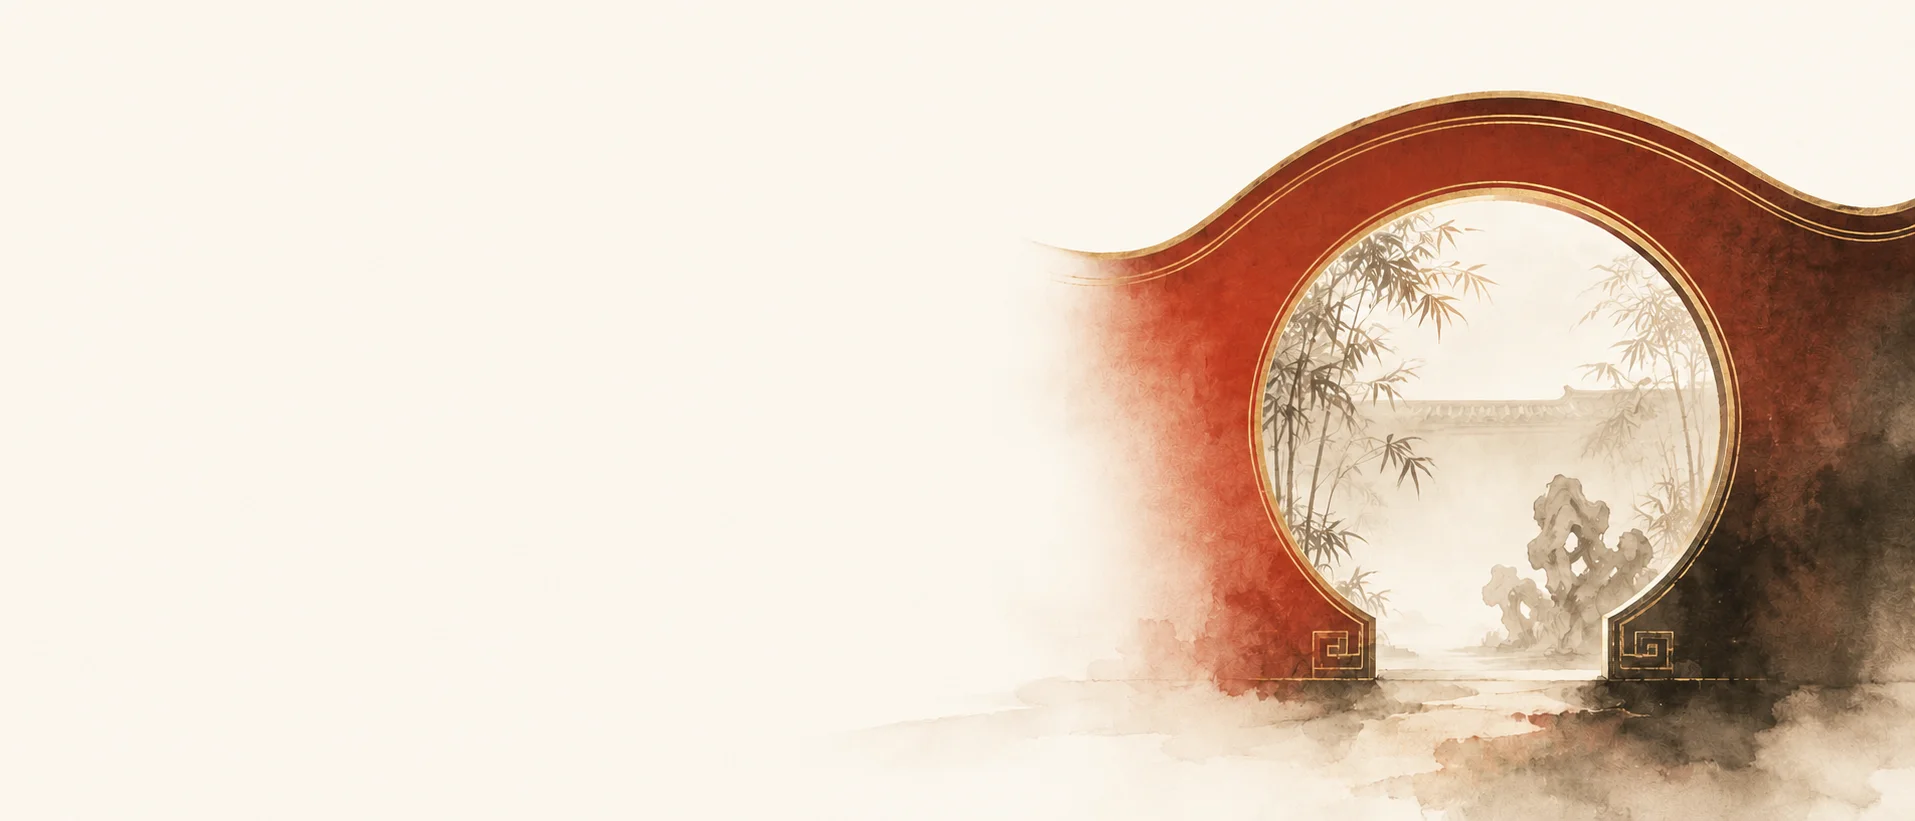
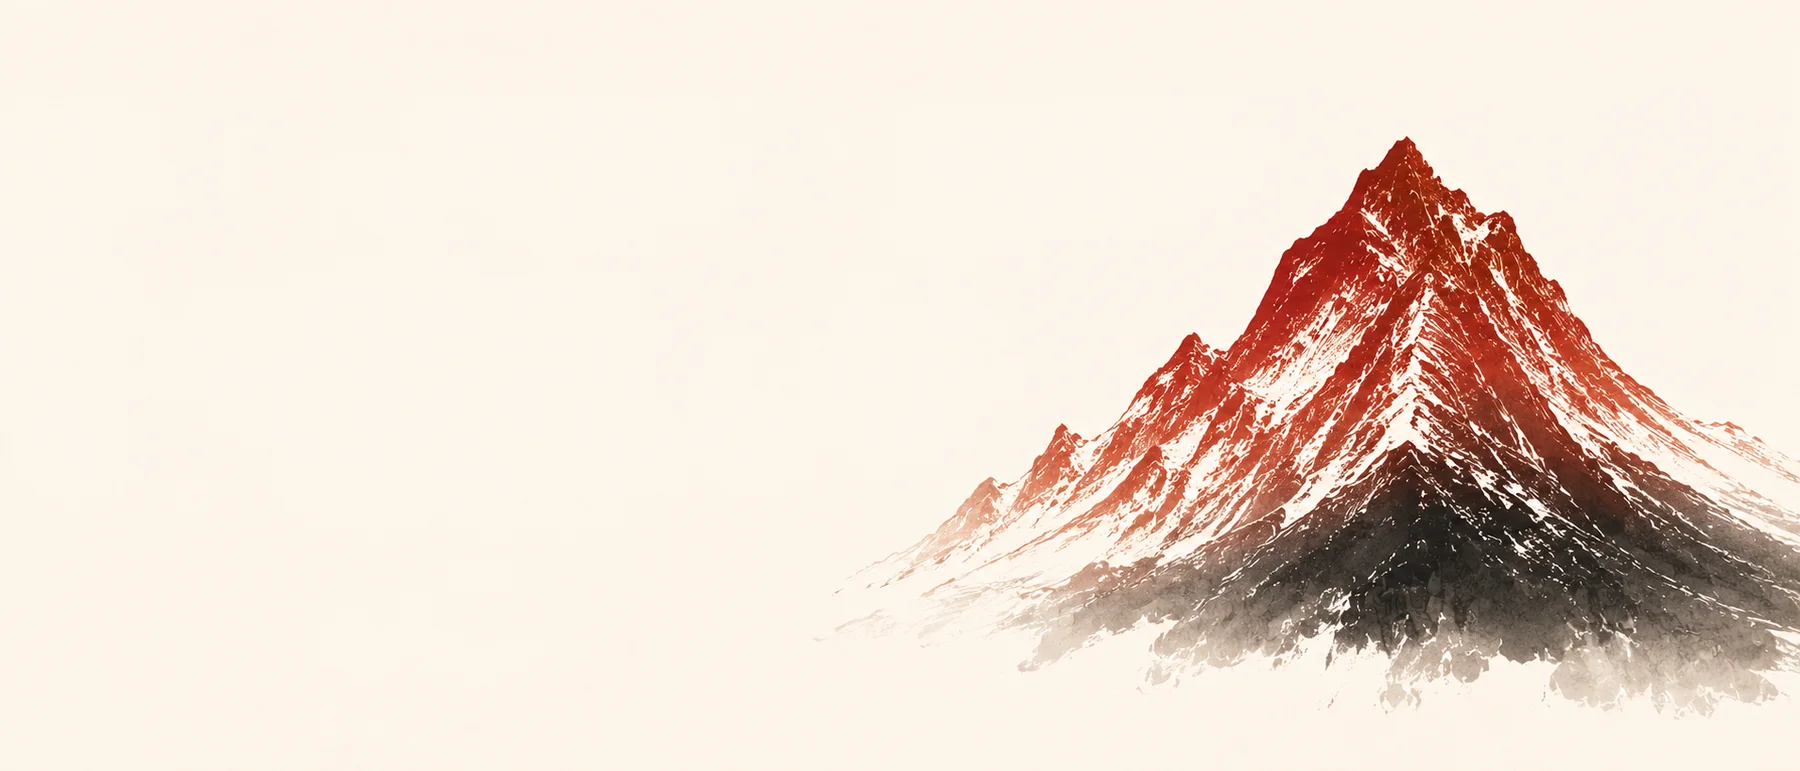
Add files via upload

diff --git a/candidates.html b/candidates.html
@@ -9,7 +9,7 @@
 /* ===== 浮生三千 マーダーミステリー ローカライズ 共用スタイル ===== */
 :root{
   --ink:#1a1a1a;
-  --ink-soft:#5c554a;
+  --ink-soft:#8a8378;
   --paper:#faf7f2;
   --card:#ffffff;
   --lacquer:#9b2226;
@@ -120,13 +120,58 @@ section{max-width:1200px;margin:0 auto;padding:100px 40px;}
 /* ===== CANDIDATE / LINEUP CARDS ===== */
 .files-note{border-left:2px solid var(--gold);padding:6px 0 6px 24px;font-size:0.9rem;color:var(--ink-soft);margin-bottom:56px;font-weight:300;max-width:70ch;}
 .files-note strong{color:var(--ink);font-weight:500;}
-.files-grid{display:grid;grid-template-columns:repeat(3,1fr);gap:1px;background:var(--hair);border:1px solid var(--hair);}
-.file-card{background:var(--card);padding:52px 34px;display:flex;align-items:center;justify-content:center;text-align:center;min-height:260px;}
-.file-card .ph-text{color:var(--ink-soft);}
-.file-card .ph-text .genre-dot{width:6px;height:6px;border-radius:50%;background:var(--gold);display:inline-block;margin-bottom:20px;}
-.file-card .ph-text strong{display:block;font-family:'Noto Serif SC','Noto Serif JP',serif;color:var(--ink);font-size:1.08rem;font-weight:400;margin-bottom:10px;letter-spacing:0.04em;}
-.file-card .ph-text span{font-size:0.85rem;font-weight:300;}
-@media (max-width:900px){.files-grid{grid-template-columns:1fr;}}
+
+/* ===== 横向作品カード ===== */
+.files-grid{display:flex;flex-direction:column;gap:1px;background:var(--hair);border:1px solid var(--hair);}
+.file-card{
+  background:var(--card);
+  display:grid;
+  grid-template-columns:200px 1fr;
+  gap:0;
+  min-height:280px;
+}
+.file-card .poster{
+  background:var(--paper-deep);
+  display:flex;
+  align-items:center;
+  justify-content:center;
+  overflow:hidden;
+  flex-shrink:0;
+}
+.file-card .poster img{
+  width:100%;
+  height:100%;
+  object-fit:cover;
+  display:block;
+}
+.file-card .poster .no-img{
+  width:60px;
+  height:60px;
+  border:1px solid var(--hair);
+  display:flex;
+  align-items:center;
+  justify-content:center;
+}
+.file-card .poster .no-img svg{stroke:var(--hair);fill:none;}
+.file-card .info{
+  padding:44px 48px;
+  display:flex;
+  flex-direction:column;
+  justify-content:center;
+  border-left:1px solid var(--hair);
+}
+.file-card .genre-dot{width:6px;height:6px;border-radius:50%;background:var(--gold);display:inline-block;margin-bottom:18px;}
+.file-card .genre-label{font-size:0.7rem;letter-spacing:0.2em;color:var(--gold);margin-bottom:12px;display:block;}
+.file-card h3{font-family:'Noto Serif SC','Noto Serif JP',serif;font-size:1.2rem;font-weight:400;margin-bottom:14px;letter-spacing:0.04em;color:var(--ink);}
+.file-card .desc{font-size:0.88rem;color:var(--ink-soft);font-weight:300;max-width:52ch;line-height:1.9;}
+.file-card .meta{margin-top:20px;font-size:0.78rem;color:var(--ink-soft);font-weight:300;letter-spacing:0.04em;}
+.file-card.ph-card .info{justify-content:center;align-items:flex-start;}
+
+@media (max-width:700px){
+  .file-card{grid-template-columns:1fr;}
+  .file-card .poster{min-height:200px;}
+  .file-card .info{padding:32px 28px;}
+}
 
 .lineup-empty{
   border:1px dashed var(--hair);
@@ -227,7 +272,7 @@ footer a{color:var(--gold);}
   </div>
 </header>
 
-<div style="background:var(--paper-deep) url('images/hero-band-red.webp') right center/cover no-repeat;">
+<div style="background:var(--paper-deep) url('images/hero-index.webp') right center/cover no-repeat;">
 <div class="page-hero" style="border-bottom:1px solid var(--hair);">
   <span class="eyebrow">SCRIPT CANDIDATES · 中国 → 日本</span>
   <h1>候補シナリオ</h1>
@@ -239,27 +284,52 @@ footer a{color:var(--gold);}
   <p class="files-note">ここに掲載する作品は、<strong>原作発行元との契約およびローカライズ作業への着手が確認できたもの</strong>のみを公開しています。交渉段階の作品については掲載しておりません。</p>
 
   <div class="files-grid">
-    <div class="file-card">
-      <div class="ph-text">
+
+    <!-- 作品を追加するときはこのブロックをコピーして使う -->
+    <!-- poster の <img> を実際の画像パスに、ph-card クラスと no-img を削除する -->
+
+    <div class="file-card ph-card">
+      <div class="poster">
+        <div class="no-img">
+          <svg width="24" height="24" viewBox="0 0 24 24" stroke-width="1" xmlns="http://www.w3.org/2000/svg"><rect x="3" y="3" width="18" height="18" rx="1"/><circle cx="8.5" cy="8.5" r="1.5"/><polyline points="21 15 16 10 5 21"/></svg>
+        </div>
+      </div>
+      <div class="info">
         <span class="genre-dot"></span>
-        <strong>準備中</strong>
-        <span>推理シナリオの選定を進めています</span>
+        <span class="genre-label">推理</span>
+        <h3>準備中</h3>
+        <p class="desc">推理シナリオの選定を進めています。詳細は確定次第ご案内します。</p>
       </div>
     </div>
-    <div class="file-card">
-      <div class="ph-text">
+
+    <div class="file-card ph-card">
+      <div class="poster">
+        <div class="no-img">
+          <svg width="24" height="24" viewBox="0 0 24 24" stroke-width="1" xmlns="http://www.w3.org/2000/svg"><rect x="3" y="3" width="18" height="18" rx="1"/><circle cx="8.5" cy="8.5" r="1.5"/><polyline points="21 15 16 10 5 21"/></svg>
+        </div>
+      </div>
+      <div class="info">
         <span class="genre-dot"></span>
-        <strong>準備中</strong>
-        <span>情感シナリオの選定を進めています</span>
+        <span class="genre-label">情感</span>
+        <h3>準備中</h3>
+        <p class="desc">情感シナリオの選定を進めています。詳細は確定次第ご案内します。</p>
       </div>
     </div>
-    <div class="file-card">
-      <div class="ph-text">
+
+    <div class="file-card ph-card">
+      <div class="poster">
+        <div class="no-img">
+          <svg width="24" height="24" viewBox="0 0 24 24" stroke-width="1" xmlns="http://www.w3.org/2000/svg"><rect x="3" y="3" width="18" height="18" rx="1"/><circle cx="8.5" cy="8.5" r="1.5"/><polyline points="21 15 16 10 5 21"/></svg>
+        </div>
+      </div>
+      <div class="info">
         <span class="genre-dot"></span>
-        <strong>準備中</strong>
-        <span>次の案件を調査しています</span>
+        <span class="genre-label">調査中</span>
+        <h3>準備中</h3>
+        <p class="desc">次の案件を調査しています。詳細は確定次第ご案内します。</p>
       </div>
     </div>
+
   </div>
 
   <div class="subscribe-box">

diff --git a/about.html b/about.html
@@ -9,7 +9,7 @@
 /* ===== 浮生三千 マーダーミステリー ローカライズ 共用スタイル ===== */
 :root{
   --ink:#1a1a1a;
-  --ink-soft:#5c554a;
+  --ink-soft:#8a8378;
   --paper:#faf7f2;
   --card:#ffffff;
   --lacquer:#9b2226;
@@ -228,7 +228,7 @@ footer a{color:var(--gold);}
   </div>
 </header>
 
-<div style="background:#faeeec;">
+<div style="background:#f5e2df;">
 <div class="page-hero" style="border-bottom:1px solid var(--hair);display:grid;grid-template-columns:1.2fr 0.8fr;gap:40px;align-items:center;max-width:1200px;">
   <div>
     <span class="eyebrow">ABOUT US</span>

diff --git a/contact.html b/contact.html
@@ -9,7 +9,7 @@
 /* ===== 浮生三千 マーダーミステリー ローカライズ 共用スタイル ===== */
 :root{
   --ink:#1a1a1a;
-  --ink-soft:#5c554a;
+  --ink-soft:#8a8378;
   --paper:#faf7f2;
   --card:#ffffff;
   --lacquer:#9b2226;
@@ -227,7 +227,7 @@ footer a{color:var(--gold);}
   </div>
 </header>
 
-<div style="background:var(--paper-deep) url('images/hero-crane.webp') right center/cover no-repeat;">
+<div style="background:var(--paper-deep) url('images/hero-index.webp') right center/cover no-repeat;">
 <div class="page-hero" style="border-bottom:1px solid var(--hair);">
   <span class="eyebrow">CONTACT</span>
   <h1>お問い合わせ</h1>

diff --git a/lineup.html b/lineup.html
@@ -9,7 +9,7 @@
 /* ===== 浮生三千 マーダーミステリー ローカライズ 共用スタイル ===== */
 :root{
   --ink:#1a1a1a;
-  --ink-soft:#5c554a;
+  --ink-soft:#8a8378;
   --paper:#faf7f2;
   --card:#ffffff;
   --lacquer:#9b2226;
@@ -227,7 +227,7 @@ footer a{color:var(--gold);}
   </div>
 </header>
 
-<div style="background:var(--paper-deep) url('images/hero-band-red.webp') right center/cover no-repeat;">
+<div style="background:var(--paper-deep) url('images/hero-index.webp') right center/cover no-repeat;">
 <div class="page-hero" style="border-bottom:1px solid var(--hair);">
   <span class="eyebrow">SCRIPT LINEUP · 中国 → 日本</span>
   <h1>作品ラインナップ</h1>

diff --git a/index.html b/index.html
@@ -9,7 +9,7 @@
 /* ===== 浮生三千 マーダーミステリー ローカライズ 共用スタイル ===== */
 :root{
   --ink:#1a1a1a;
-  --ink-soft:#5c554a;
+  --ink-soft:#8a8378;
   --paper:#faf7f2;
   --card:#ffffff;
   --lacquer:#9b2226;

diff --git a/japan-to-china.html b/japan-to-china.html
@@ -9,7 +9,7 @@
 /* ===== 浮生三千 マーダーミステリー ローカライズ 共用スタイル ===== */
 :root{
   --ink:#1a1a1a;
-  --ink-soft:#5c554a;
+  --ink-soft:#8a8378;
   --paper:#f7f0df;
   --card:#ffffff;
   --lacquer:#9b2226;